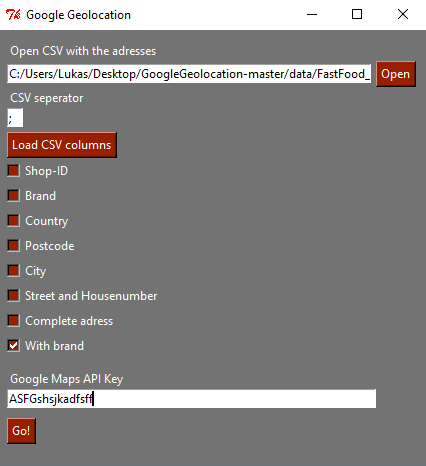
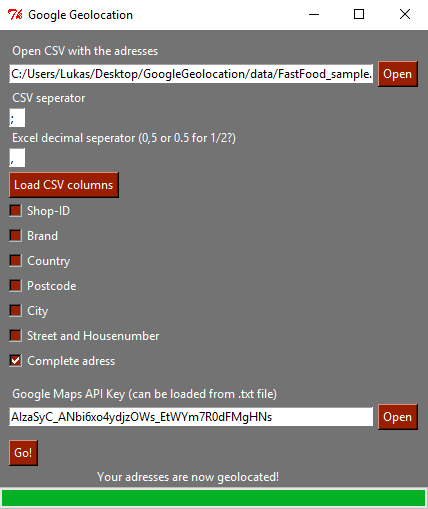
debug error with single column

Changed region(s): [[0.0, 0.0, 1.0, 1.0]]

diff --git a/scripts/csvHandling.py b/scripts/csvHandling.py
@@ -1,5 +1,6 @@
 #!python2
 
+import traceback
 import numpy as np
 from numpy import genfromtxt
 
@@ -13,39 +14,44 @@ class CSV:
         self.nCol = 0
         self.rows2skip = 0
         
-        self.adresses = []
-        self.rows = []
+        self.adresses = []      # empty list for adresses to geocode
+        self.rows = []          # empty list for the respective row numbers of the adresses
         
     def getAdressesToGeocode(self):
         try:
             self.data = genfromtxt(self.csv, delimiter=self.seperator , dtype=None)  # csv to numpy
-        
-            self.nRow = self.data.shape[0]                                           # number of rows
-            self.nCol = self.data.shape[1]                                           # number of columns
-            colNames = self.data[0,:]                                                # column names
 
-            if "geolocateLAT" not in colNames or "geolocateLONG" not in colNames: # add lat long columns in not exist
+            if len(self.data.shape) == 1:                                            # only 1 column -> no multidimensional numpy array
+                self.nRow = self.data.shape[0]                                       # number of rows
+                self.nCol = 1                                                        # number of columns
+                colNames = self.data[0]                                              # column name
+            else:                                                                    # more than 1 column -> multidimensional numpy arrays
+                self.nRow = self.data.shape[0]                                       # number of rows
+                self.nCol = self.data.shape[1]                                       # number of columns
+                colNames = self.data[0,:]                                            # column names
+
+            if "geolocateLAT" not in colNames or "geolocateLONG" not in colNames:    # add GEOLOCATE columns if not exist
                 self.data = np.column_stack((self.data, np.repeat("", self.nRow), np.repeat("", self.nRow), np.repeat("", self.nRow), np.repeat("", self.nRow)))
                 self.data[0, self.nCol] = "geolocateLAT"
                 self.data[0, self.nCol+1] = "geolocateLONG"
                 self.data[0, self.nCol+2] = "geolocateSTATUS"
                 self.data[0, self.nCol+3] = "geolocateADRESS"
-                self.nCol += 4
+                self.nCol += 4 # update new number of columns
 
             i, = np.where(self.data[0,:] == self.adressColumn)[0]                    # get index of adress column
-            self.adresses = []
             
             for row in range(self.nRow):
-                if self.data[row, self.nCol-2] == "":                                # for rows which wasn't geolocated yet (no status)
-                    self.adresses.append(self.data[row, i])                          # collect row number and adress   
-                    self.rows.append(row)
+                if self.data[row, self.nCol-2] == "":                                # for rows which wasn't geolocated yet (no status):
+                    self.adresses.append(self.data[row, i])                          # collect adress (i is the adress column)  
+                    self.rows.append(row)                                            # collect row number
 
-            if self.nRow-1 != len(self.adresses):
-                self.rows2skip = self.nRow - len(self.adresses)
+            if self.nRow-1 != len(self.adresses):                                    # if there are rows which are already geolocated (-1 for the column names)
+                self.rows2skip = self.nRow-1 - len(self.adresses)                    # safe the difference to inform the user 
 
             return True
 
         except Exception as e:
+            traceback.print_exc()
             print str(e)
             return False
 

diff --git a/scripts/processGUIinput.py b/scripts/processGUIinput.py
@@ -1,6 +1,6 @@
 # local imports
-from csv_handling import *
-from functionality import *
+from csvHandling import *
+from connect2googlegeo import *
 
 
 def processInput(gui, csv, sperator, decSeperator, adressColumn, apiKey):
@@ -12,8 +12,9 @@ def processInput(gui, csv, sperator, decSeperator, adressColumn, apiKey):
     frame = gui
     success = 1
 
-    csv = CSV(csv, sperator, adressColumn)
-    catch = csv.getAdressesToGeocode()
+    csv = CSV(csv, sperator, adressColumn)      # create object of class CSV
+    catch = csv.getAdressesToGeocode()          # will return false if unsucessfull
+    
     if catch == False:
         success = 0
         frame.setMessage("error", "Could not read the csv file")
@@ -23,13 +24,14 @@ def processInput(gui, csv, sperator, decSeperator, adressColumn, apiKey):
     elif csv.rows2skip == 0:
         frame.setMessage("normal", "Processing {0} adresses".format(len(csv.adresses)))
     else:
-        frame.setMessage("normal", "Skipped {0} already geolocated adresses.\nProcessing {1} adresses".format(csv.rows2skip-1, len(csv.adresses)))
+        frame.setMessage("normal", "Skipped {0} already geolocated adresses.\nProcessing {1} adresses".format(csv.rows2skip, len(csv.adresses)))
+
 
     counter = 0
     numberConnectionError = 0
     
-    if len(csv.adresses) != 0:          # would be division through 0
-        parts = float(100)/len(csv.adresses)
+    if len(csv.adresses) != 0:                  # would be division through 0
+        parts = float(100)/len(csv.adresses)    # parts are needed for the progress bar
 
     for i in range(len(csv.adresses)):
         result = connect_2_service(csv.adresses[i], apiKey)
@@ -56,7 +58,7 @@ def processInput(gui, csv, sperator, decSeperator, adressColumn, apiKey):
         elif result[0] == "OVER_QUERY_LIMIT":
             success = 0
             csv.saveCSV()
-            frame.setMessage("normal", "You have reached your daily limit of 2500 requests.\n{0} of {1} adresses are now geocoded.\nPlease come back tomorrow and do not make changes at the csv".format(csv.rows2skip + counter - 1,csv.nRow-1))
+            frame.setMessage("normal", "You have reached your daily limit of 2500 requests.\n{0} of {1} adresses are now geocoded.\nPlease come back tomorrow or insert another key and do not make changes at the csv".format(csv.rows2skip + counter - 1,csv.nRow-1))
             break
         
         elif result[0] == "NETWORK_PROBLEM":
@@ -67,7 +69,7 @@ def processInput(gui, csv, sperator, decSeperator, adressColumn, apiKey):
             else:
                 success = 0
                 csv.saveCSV()
-                frame.setMessage("error", "You have an connection error.\n{0} of {1} adresses are now geocoded".format(csv.rows2skip + counter - 1,csv.nRow-1))
+                frame.setMessage("error", "You have an connection error.\n{0} of {1} adresses are now geocoded".format(csv.rows2skip + counter,csv.nRow-1))
                 break
 
     if success == 1:

diff --git a/scripts/connect2googlegeo.py b/scripts/connect2googlegeo.py
@@ -46,17 +46,17 @@ def connect_2_service(adress, key = YOUR_API_KEY):
         if(status == "OK"):                             # if results are returned
             j = json_response["results"]                # get the result part
 
-            if len(j) > 1:                              # what do we do with multiple results?
-                status = "MULTIPLE_RESULTS"
+            if len(j) > 1:                              # for multiple results the first entry (most probable) is returned
+                status = "MULTIPLE_RESULTS"             # but user is informed that there were multiple results
                 #print "multiple options:"
                 #for option in j:
                 #    print option["formatted_address"]
 
-            location=  j[0]["geometry"]["location"]     # get fist result
+            location=  j[0]["geometry"]["location"]     # get location of first result
             list_lat_lon = [location["lat"],location["lng"]] # store lat and long in list
-            adress = j[0]["formatted_address"]
-            print list_lat_lon                          # print and return status + coordinates
-            return [status, list_lat_lon, adress]
+            adress = j[0]["formatted_address"]          # store formatted adress  
+            print list_lat_lon                          # print coordinates  
+            return [status, list_lat_lon, adress]       # return status + coordinates + adress
 
         if(status == "ZERO_RESULTS"):
             print "no results"

diff --git a/gui.py b/gui.py
@@ -1,9 +1,9 @@
 #!python2
 
 # local imports
-from csv_handling import *
-from functionality import *
-from combine_gui_functionality import *
+from scripts.csvHandling import *
+from scripts.connect2googlegeo import *
+from scripts.processGUIinput import *
 
 # lib imports
 from Tkinter import *
@@ -24,13 +24,13 @@ class Application(Frame):
         filename = askopenfilename() # show an "Open" dialog box and return the path to the selected file
         self.csv.set(filename)       # the StringVar is set, Entry updated
 
-    def openText(self):
+    def openText(self):              # to get the Geolocation API key from a textfile
         filename = askopenfilename() # show an "Open" dialog box and return the path to the selected file
         try:
             with open(filename) as f:
-                key = f.readline()
-                key = key.strip()
-                self.key.set(key)       # the StringVar is set, Entry updated
+                TKey = f.readline()
+                TKey = TKey.strip()
+                self.key.set(TKey)       # the StringVar is set, Entry updated
         except:
             self.message.set("Could not receive Key, please enter manualy")
 

diff --git a/README.md b/README.md
@@ -6,3 +6,15 @@ Download and open the GUI.py file to start the application.
 ![Alt Text](https://github.com/lukasalexanderweber/GoogleGeolocation/blob/master/img/GUI.png)
 
 
+### Dependencies
+
+Following libraries are needed to run this program
+
+* Tkinter 
+	* tkFileDialog
+	* ttk
+	* tkMessageBox
+* csv
+* numpy
+* requests
+* json
